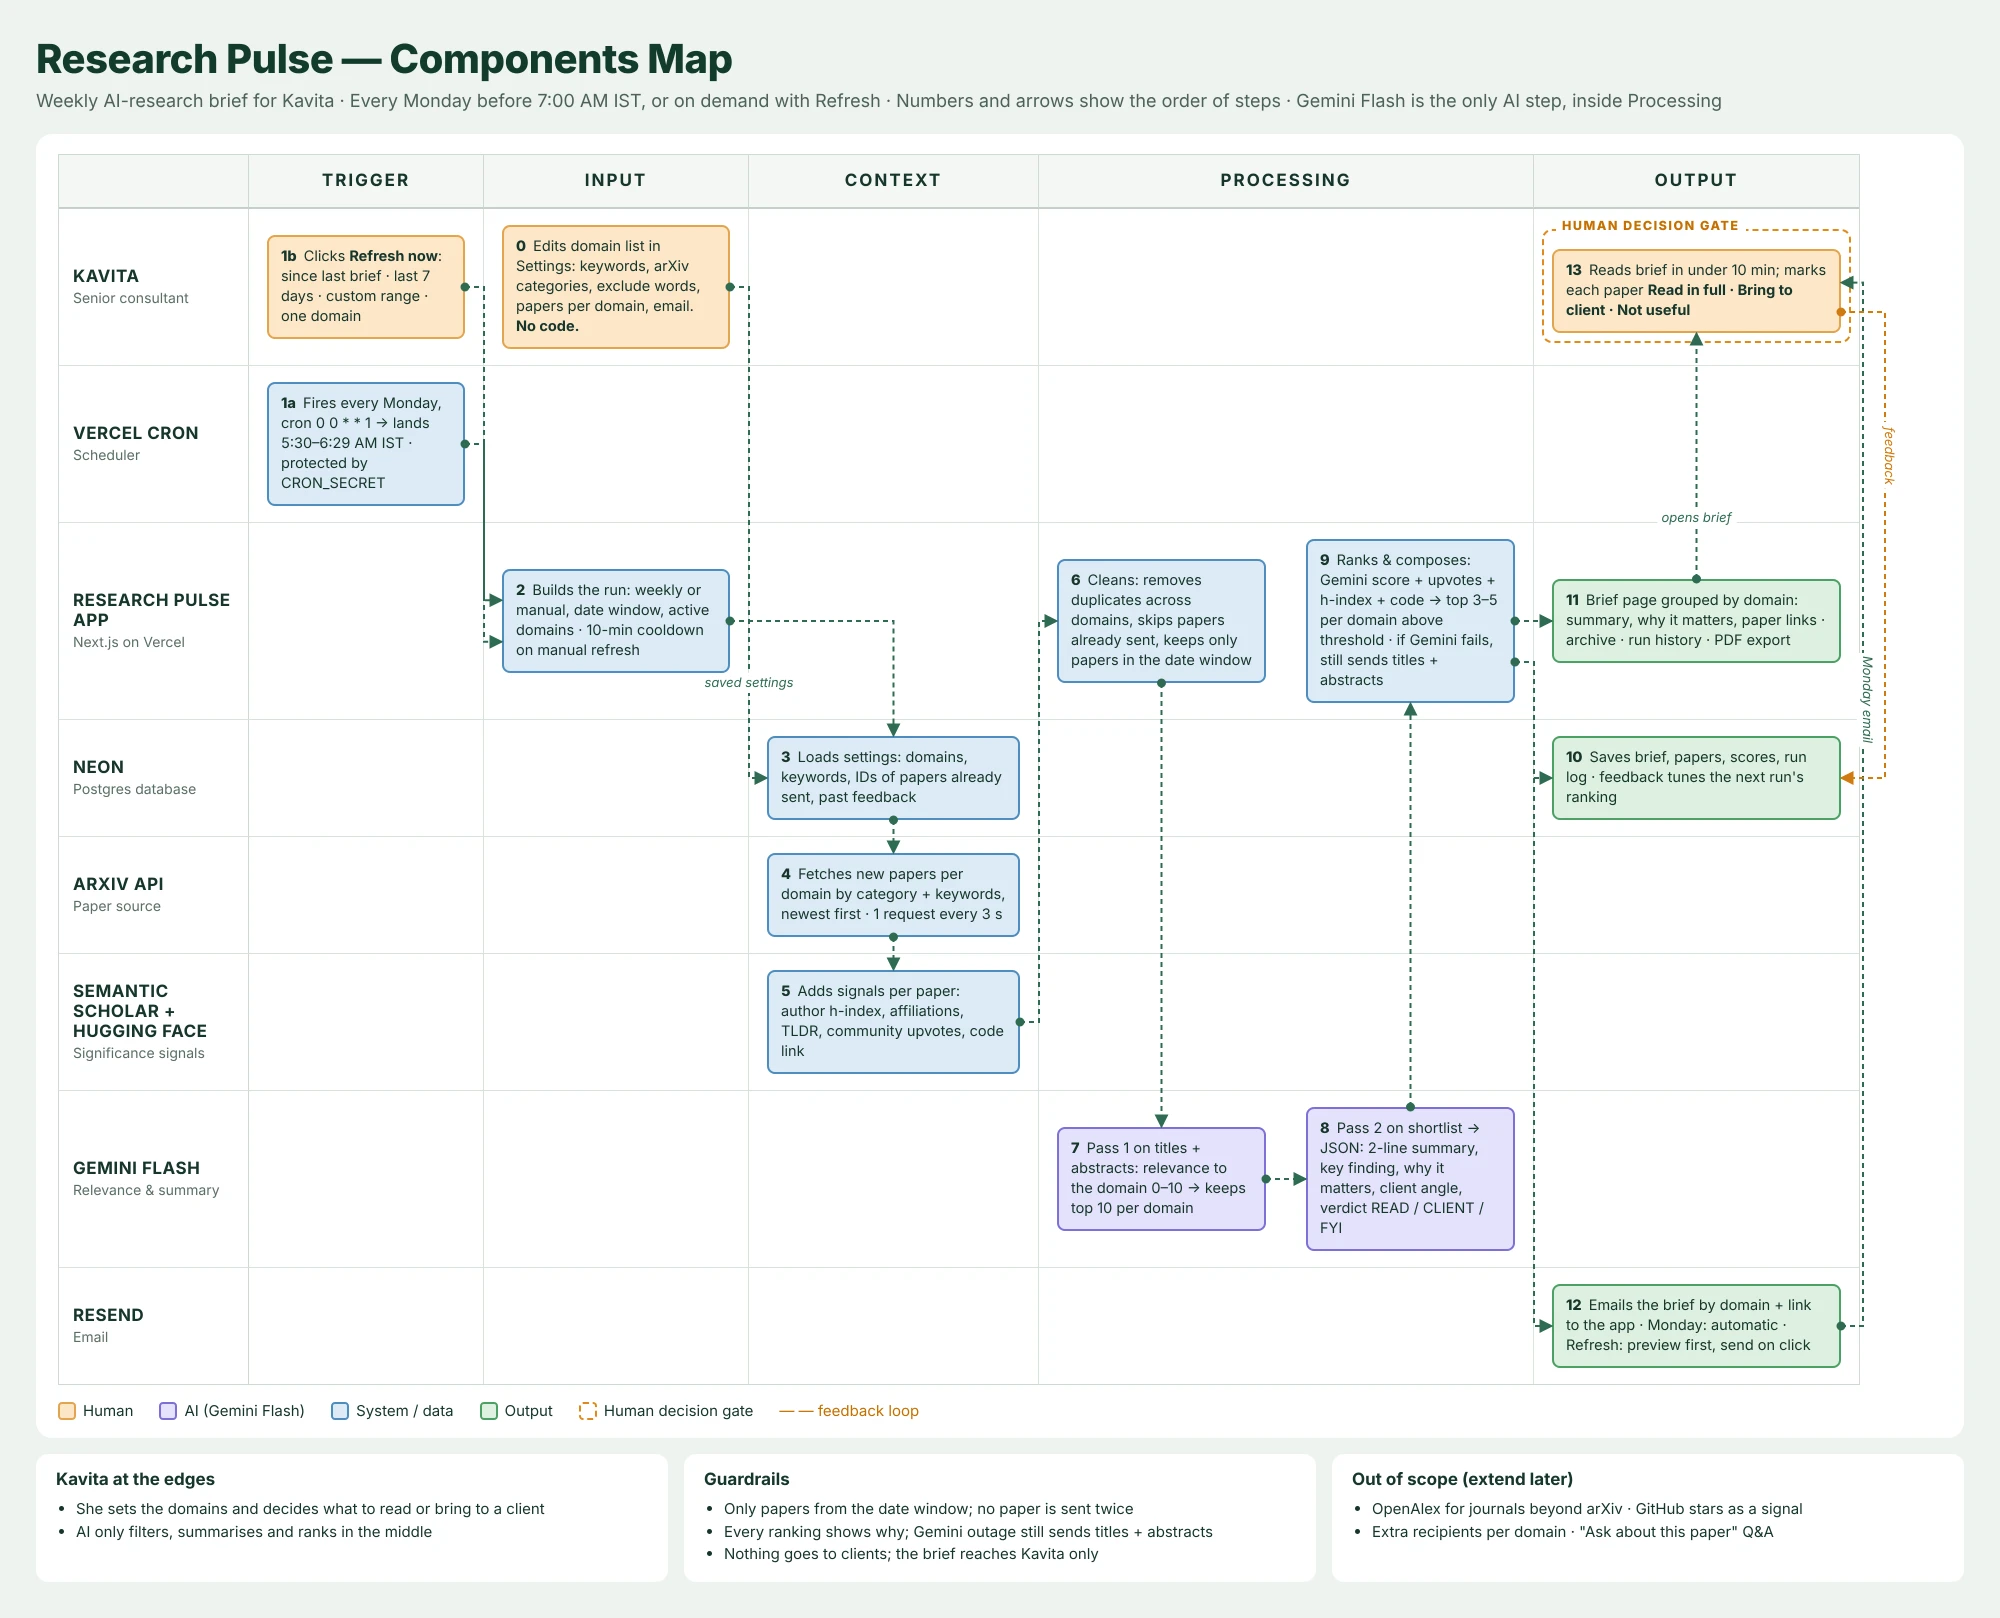
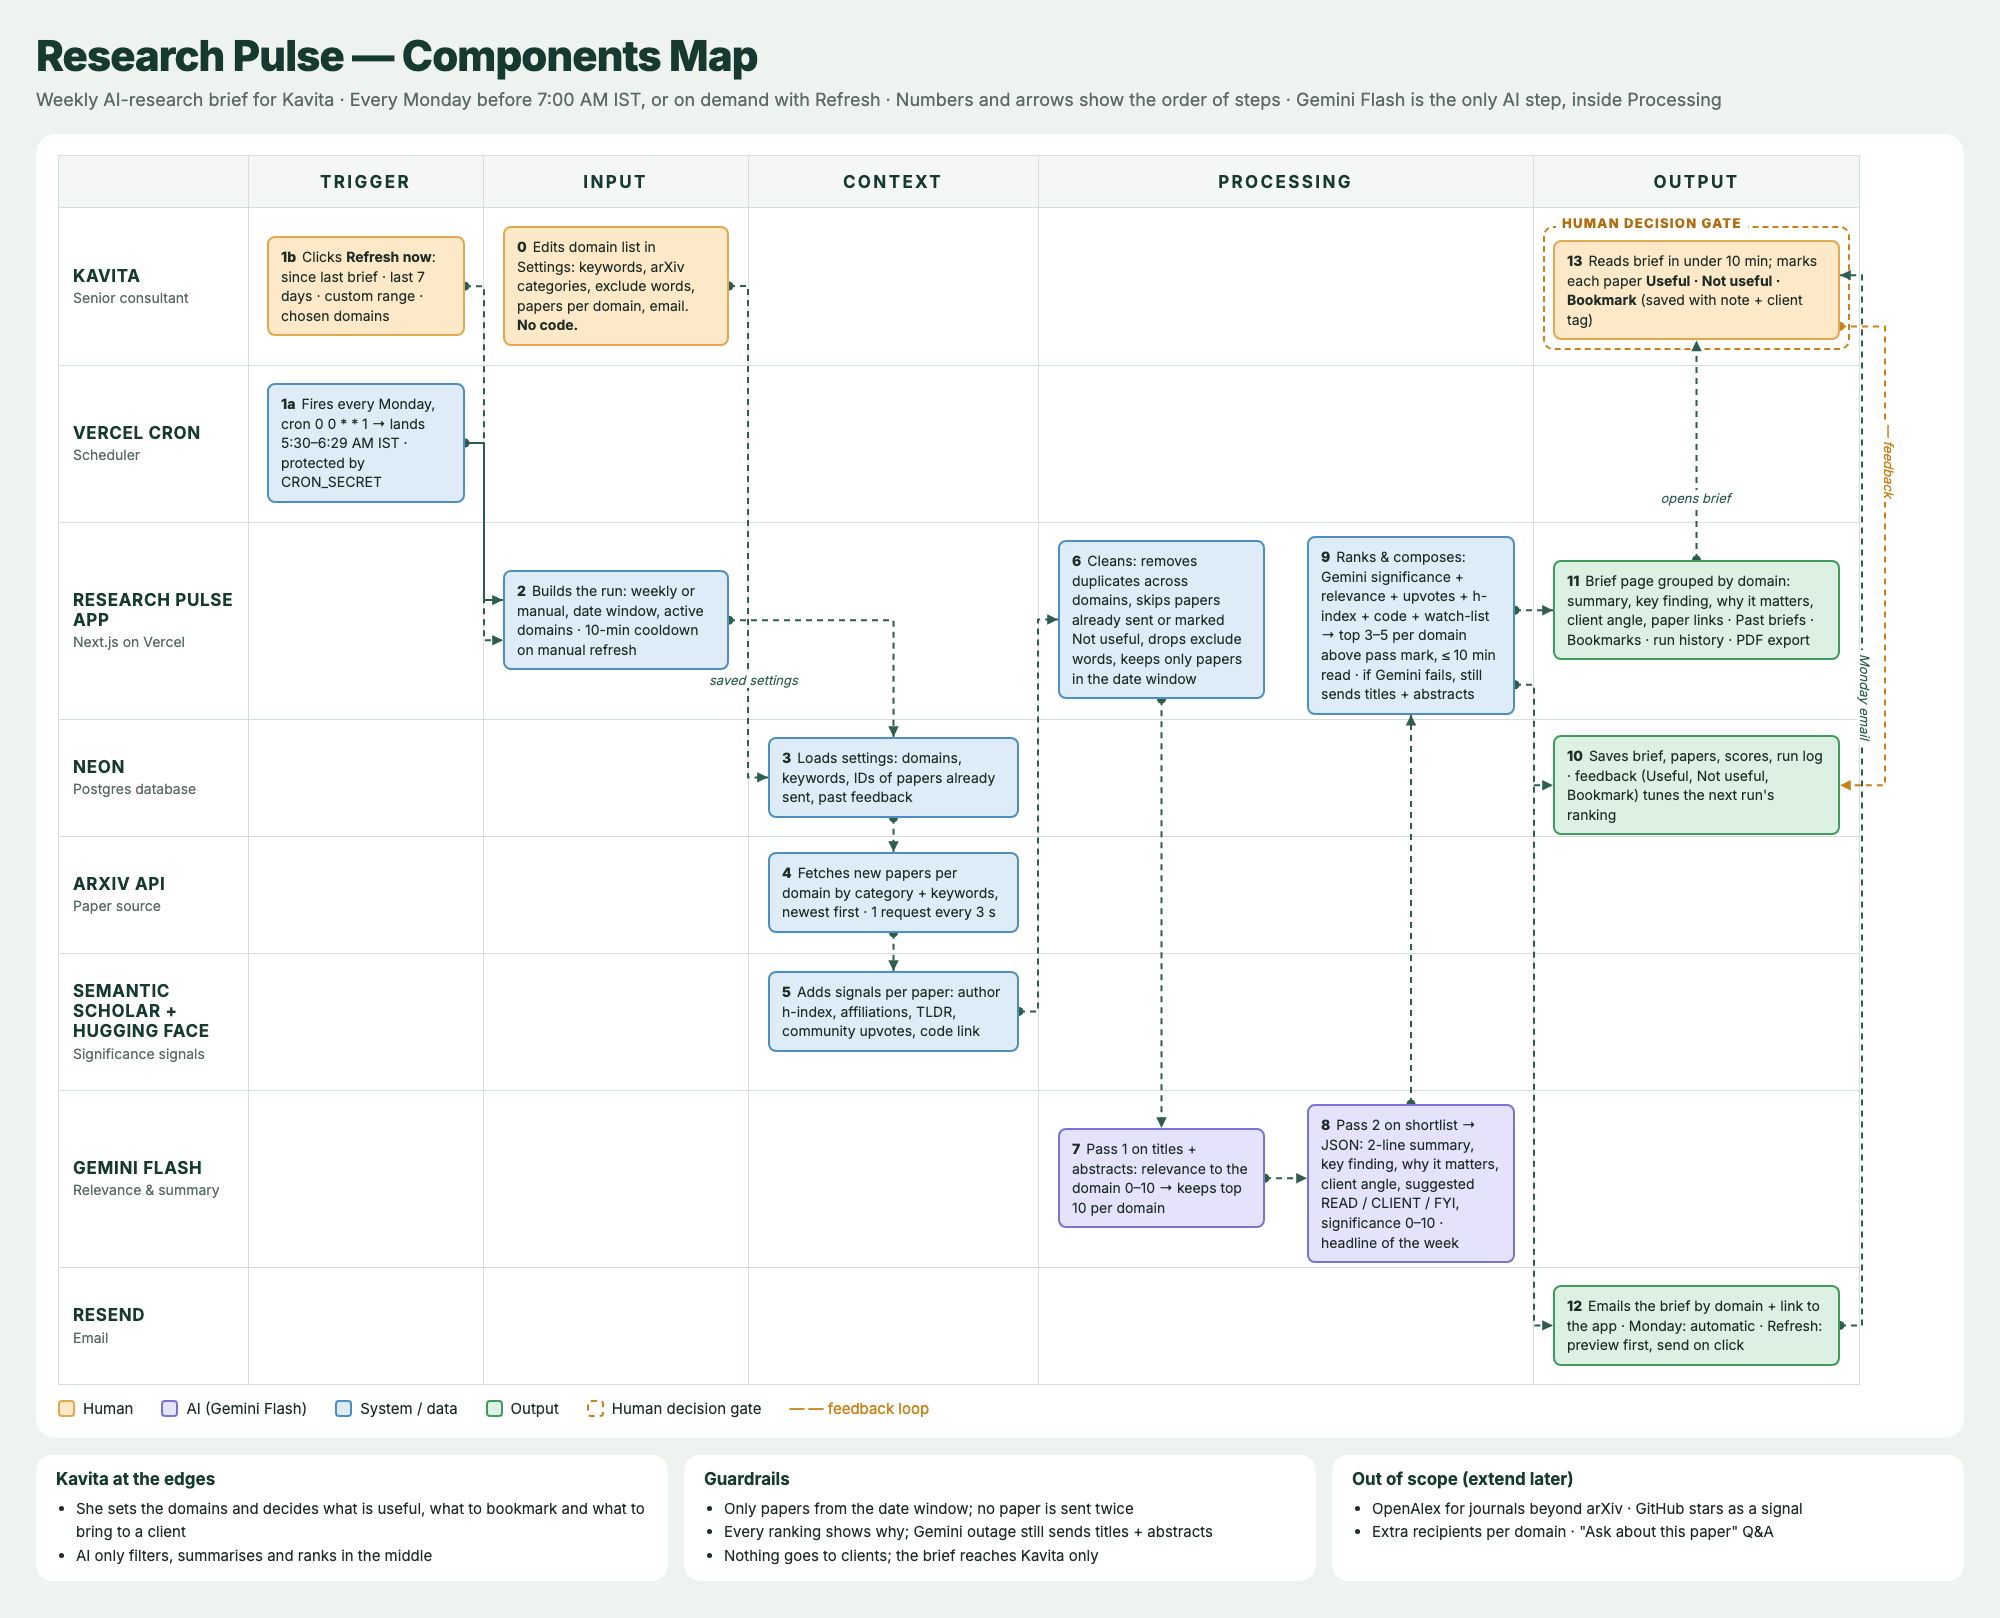
Update Components Map to match final build
Steps 6, 8, 9, 10, 11 and 13 reflect Useful / Not useful / Bookmark, Past briefs,
suggested verdicts and the full ranking. Source HTML kept in docs/components-map.html.

diff --git a/docs/components-map.html b/docs/components-map.html
@@ -1,0 +1,183 @@
+<!doctype html>
+<html lang="en">
+<head>
+<meta charset="utf-8">
+<title>Research Pulse — Components Map</title>
+<link rel="preconnect" href="https://fonts.googleapis.com">
+<link href="https://fonts.googleapis.com/css2?family=Inter:wght@400;500;600;700;800&display=swap" rel="stylesheet">
+<style>
+  :root {
+    --bg: #eef3ef; --card: #ffffff; --ink: #163a2f; --text: #1f2d27; --mut: #5b6b64; --line: #d5dfd9; --hdr: #f4f7f5;
+    --h: #fde8c8; --hb: #e3a84f; --ai: #e5e2fb; --aib: #7b72d6; --sys: #ddecf7; --sysb: #4f8fbf; --out: #dcf1e1; --outb: #3f9a5c;
+    --wire: #2f5d50; --fb: #c9821a;
+  }
+  * { box-sizing: border-box; }
+  html, body { margin: 0; }
+  body { width: 2000px; height: 1618px; background: var(--bg); color: var(--text); font-family: Inter, -apple-system, "Segoe UI", sans-serif; position: relative; overflow: hidden; }
+  h1 { position: absolute; left: 36px; top: 30px; margin: 0; font-size: 42px; font-weight: 800; letter-spacing: -0.02em; color: var(--ink); }
+  .sub { position: absolute; left: 36px; top: 89px; margin: 0; font-size: 18px; color: var(--mut); }
+  .card { position: absolute; left: 36px; top: 134px; width: 1928px; height: 1304px; background: var(--card); border-radius: 20px; }
+  .grid { position: absolute; left: 58px; top: 155px; width: 1802px; height: 1230px; border: 1px solid var(--line); }
+  .hrow { position: absolute; left: 58px; top: 155px; width: 1802px; height: 53px; background: var(--hdr); border-bottom: 1px solid var(--line); }
+  .col { position: absolute; top: 155px; height: 1230px; border-left: 1px solid var(--line); }
+  .row { position: absolute; left: 58px; width: 1802px; border-top: 1px solid var(--line); }
+  .hd { position: absolute; top: 155px; height: 53px; display: flex; align-items: center; justify-content: center; font-weight: 700; font-size: 17px; letter-spacing: 0.14em; color: var(--ink); }
+  .lane { position: absolute; left: 73px; width: 170px; display: flex; flex-direction: column; justify-content: center; font-weight: 700; font-size: 17px; letter-spacing: 0.04em; color: var(--ink); text-transform: uppercase; line-height: 1.2; }
+  .lane small { font-weight: 400; font-size: 14px; letter-spacing: 0; color: var(--mut); text-transform: none; margin-top: 4px; }
+  .b { position: absolute; border: 2px solid; border-radius: 8px; padding: 9px 12px; font-size: 14px; line-height: 1.4; z-index: 2; }
+  .b i { font-style: normal; font-weight: 800; margin-right: 6px; }
+  .h { background: var(--h); border-color: var(--hb); } .ai { background: var(--ai); border-color: var(--aib); }
+  .sys { background: var(--sys); border-color: var(--sysb); } .out { background: var(--out); border-color: var(--outb); }
+  .gate { position: absolute; border: 2px dashed var(--fb); border-radius: 10px; z-index: 1; }
+  .gate-label { position: absolute; font-size: 13px; font-weight: 800; letter-spacing: 0.1em; color: #b06d0d; background: #fff; padding: 0 6px; z-index: 3; }
+  .wlabel { position: absolute; font-size: 13px; font-style: italic; color: var(--wire); background: #fff; padding: 0 4px; z-index: 3; white-space: nowrap; }
+  .vlabel { position: absolute; font-size: 13px; font-style: italic; transform: rotate(90deg); transform-origin: left top; white-space: nowrap; background: #fff; padding: 0 4px; z-index: 3; }
+  svg#wires { position: absolute; left: 0; top: 0; width: 2000px; height: 1618px; z-index: 1; overflow: visible; }
+  .legend { position: absolute; left: 58px; top: 1399px; display: flex; gap: 28px; font-size: 15px; color: var(--text); align-items: center; }
+  .legend span { display: flex; align-items: center; gap: 8px; }
+  .legend b { width: 17px; height: 17px; border-radius: 4px; border: 2px solid; display: inline-block; }
+  .notes { position: absolute; top: 1455px; height: 126px; width: 632px; background: var(--card); border-radius: 16px; padding: 14px 20px; }
+  .notes h3 { margin: 0 0 8px; font-size: 17px; font-weight: 700; color: var(--ink); }
+  .notes ul { margin: 0; padding-left: 20px; font-size: 15px; line-height: 1.55; }
+</style>
+</head>
+<body>
+<h1>Research Pulse — Components Map</h1>
+<p class="sub">Weekly AI-research brief for Kavita · Every Monday before 7:00 AM IST, or on demand with Refresh · Numbers and arrows show the order of steps · Gemini Flash is the only AI step, inside Processing</p>
+
+<div class="card"></div>
+<div class="hrow"></div>
+<div class="grid"></div>
+<div class="col" style="left:248px"></div><div class="col" style="left:483px"></div><div class="col" style="left:748px"></div>
+<div class="col" style="left:1038px"></div><div class="col" style="left:1533px"></div>
+<div class="row" style="top:365px"></div><div class="row" style="top:522px"></div><div class="row" style="top:719px"></div>
+<div class="row" style="top:836px"></div><div class="row" style="top:953px"></div><div class="row" style="top:1090px"></div><div class="row" style="top:1267px"></div>
+
+<div class="hd" style="left:248px;width:235px">TRIGGER</div>
+<div class="hd" style="left:483px;width:265px">INPUT</div>
+<div class="hd" style="left:748px;width:290px">CONTEXT</div>
+<div class="hd" style="left:1038px;width:495px">PROCESSING</div>
+<div class="hd" style="left:1533px;width:327px">OUTPUT</div>
+
+<div class="lane" style="top:208px;height:157px">Kavita<small>Senior consultant</small></div>
+<div class="lane" style="top:365px;height:157px">Vercel Cron<small>Scheduler</small></div>
+<div class="lane" style="top:522px;height:197px">Research Pulse App<small>Next.js on Vercel</small></div>
+<div class="lane" style="top:719px;height:117px">Neon<small>Postgres database</small></div>
+<div class="lane" style="top:836px;height:117px">arXiv API<small>Paper source</small></div>
+<div class="lane" style="top:953px;height:137px">Semantic Scholar + Hugging Face<small>Significance signals</small></div>
+<div class="lane" style="top:1090px;height:177px">Gemini Flash<small>Relevance &amp; summary</small></div>
+<div class="lane" style="top:1267px;height:118px">Resend<small>Email</small></div>
+
+<!-- Kavita -->
+<div id="n1b" class="b h" style="left:267px;top:236px;width:198px"><i>1b</i>Clicks <b>Refresh now</b>: since last brief · last 7 days · custom range · chosen domains</div>
+<div id="n0" class="b h" style="left:503px;top:226px;width:226px"><i>0</i>Edits domain list in Settings: keywords, arXiv categories, exclude words, papers per domain, email.<br><b>No code.</b></div>
+<div id="gate" class="gate"></div>
+<div id="gatelabel" class="gate-label">HUMAN DECISION GATE</div>
+<div id="n13" class="b h" style="left:1553px;top:240px;width:287px"><i>13</i>Reads brief in under 10 min; marks each paper <b>Useful · Not useful · Bookmark</b> (saved with note + client tag)</div>
+
+<!-- Vercel Cron -->
+<div id="n1a" class="b sys" style="left:267px;top:383px;width:198px"><i>1a</i>Fires every Monday, cron 0 0 * * 1 → lands 5:30–6:29 AM IST · protected by CRON_SECRET</div>
+
+<!-- App -->
+<div id="n2" class="b sys" style="left:503px;top:570px;width:226px"><i>2</i>Builds the run: weekly or manual, date window, active domains · 10-min cooldown on manual refresh</div>
+<div id="n6" class="b sys" style="left:1058px;top:540px;width:207px"><i>6</i>Cleans: removes duplicates across domains, skips papers already sent or marked Not useful, drops exclude words, keeps only papers in the date window</div>
+<div id="n9" class="b sys" style="left:1307px;top:536px;width:208px"><i>9</i>Ranks &amp; composes: Gemini significance + relevance + upvotes + h-index + code + watch-list → top 3–5 per domain above pass mark, ≤ 10 min read · if Gemini fails, still sends titles + abstracts</div>
+<div id="n11" class="b out" style="left:1553px;top:560px;width:287px"><i>11</i>Brief page grouped by domain: summary, key finding, why it matters, client angle, paper links · Past briefs · Bookmarks · run history · PDF export</div>
+
+<!-- Neon -->
+<div id="n3" class="b sys" style="left:768px;top:737px;width:251px"><i>3</i>Loads settings: domains, keywords, IDs of papers already sent, past feedback</div>
+<div id="n10" class="b out" style="left:1553px;top:735px;width:287px"><i>10</i>Saves brief, papers, scores, run log · feedback (Useful, Not useful, Bookmark) tunes the next run's ranking</div>
+
+<!-- arXiv -->
+<div id="n4" class="b sys" style="left:768px;top:852px;width:251px"><i>4</i>Fetches new papers per domain by category + keywords, newest first · 1 request every 3 s</div>
+
+<!-- S2 + HF -->
+<div id="n5" class="b sys" style="left:768px;top:971px;width:251px"><i>5</i>Adds signals per paper: author h-index, affiliations, TLDR, community upvotes, code link</div>
+
+<!-- Gemini -->
+<div id="n7" class="b ai" style="left:1058px;top:1128px;width:207px"><i>7</i>Pass 1 on titles + abstracts: relevance to the domain 0–10 → keeps top 10 per domain</div>
+<div id="n8" class="b ai" style="left:1307px;top:1104px;width:208px"><i>8</i>Pass 2 on shortlist → JSON: 2-line summary, key finding, why it matters, client angle, suggested READ / CLIENT / FYI, significance 0–10 · headline of the week</div>
+
+<!-- Resend -->
+<div id="n12" class="b out" style="left:1553px;top:1285px;width:287px"><i>12</i>Emails the brief by domain + link to the app · Monday: automatic · Refresh: preview first, send on click</div>
+
+<svg id="wires" xmlns="http://www.w3.org/2000/svg"></svg>
+
+<div class="legend">
+  <span><b style="background:var(--h);border-color:var(--hb)"></b>Human</span>
+  <span><b style="background:var(--ai);border-color:var(--aib)"></b>AI (Gemini Flash)</span>
+  <span><b style="background:var(--sys);border-color:var(--sysb)"></b>System / data</span>
+  <span><b style="background:var(--out);border-color:var(--outb)"></b>Output</span>
+  <span><b style="background:#fff;border:2px dashed var(--fb)"></b>Human decision gate</span>
+  <span style="color:var(--fb)">— — feedback loop</span>
+</div>
+
+<div class="notes" style="left:36px"><h3>Kavita at the edges</h3><ul>
+  <li>She sets the domains and decides what is useful, what to bookmark and what to bring to a client</li>
+  <li>AI only filters, summarises and ranks in the middle</li></ul></div>
+<div class="notes" style="left:684px"><h3>Guardrails</h3><ul>
+  <li>Only papers from the date window; no paper is sent twice</li>
+  <li>Every ranking shows why; Gemini outage still sends titles + abstracts</li>
+  <li>Nothing goes to clients; the brief reaches Kavita only</li></ul></div>
+<div class="notes" style="left:1332px"><h3>Out of scope (extend later)</h3><ul>
+  <li>OpenAlex for journals beyond arXiv · GitHub stars as a signal</li>
+  <li>Extra recipients per domain · "Ask about this paper" Q&amp;A</li></ul></div>
+
+<script>
+function R(id) {
+  const r = document.getElementById(id).getBoundingClientRect();
+  return { l: r.left, r: r.right, t: r.top, b: r.bottom, cx: (r.left + r.right) / 2, cy: (r.top + r.bottom) / 2, h: r.height };
+}
+const svg = document.getElementById("wires");
+const NS = "http://www.w3.org/2000/svg";
+function el(tag, attrs) { const e = document.createElementNS(NS, tag); for (const k in attrs) e.setAttribute(k, attrs[k]); svg.appendChild(e); return e; }
+function wire(pts, { color = "#2f5d50", dashed = true, dot = true, arrow = true } = {}) {
+  el("polyline", { points: pts.map((p) => p.join(",")).join(" "), fill: "none", stroke: color, "stroke-width": 2, "stroke-dasharray": dashed ? "6 5" : "", "stroke-linejoin": "round" });
+  if (dot) el("circle", { cx: pts[0][0], cy: pts[0][1], r: 4.5, fill: color });
+  if (arrow) {
+    const [x2, y2] = pts[pts.length - 1], [x1, y1] = pts[pts.length - 2];
+    const a = Math.atan2(y2 - y1, x2 - x1), s = 12;
+    const p1 = [x2 - s * Math.cos(a - 0.45), y2 - s * Math.sin(a - 0.45)], p2 = [x2 - s * Math.cos(a + 0.45), y2 - s * Math.sin(a + 0.45)];
+    el("polygon", { points: `${x2},${y2} ${p1.join(",")} ${p2.join(",")}`, fill: color });
+  }
+}
+function label(text, x, y, cls = "wlabel", color) {
+  const d = document.createElement("div"); d.className = cls; d.textContent = text; d.style.left = x + "px"; d.style.top = y + "px";
+  if (color) d.style.color = color; document.body.appendChild(d); return d;
+}
+function draw() {
+  // Size the dashed human-decision gate around step 13.
+  const g = R("n13"), gate = document.getElementById("gate"), gl = document.getElementById("gatelabel");
+  Object.assign(gate.style, { left: g.l - 10 + "px", top: g.t - 14 + "px", width: g.r - g.l + 20 + "px", height: g.h + 24 + "px" });
+  Object.assign(gl.style, { left: g.l + 3 + "px", top: g.t - 25 + "px" });
+  const b1b = R("n1b"), b1a = R("n1a"), b0 = R("n0"), b2 = R("n2"), b3 = R("n3"), b4 = R("n4"), b5 = R("n5"), b6 = R("n6"),
+    b7 = R("n7"), b8 = R("n8"), b9 = R("n9"), b10 = R("n10"), b11 = R("n11"), b12 = R("n12"), b13 = R("n13");
+  const in2a = b2.t + b2.h * 0.3, in2b = b2.t + b2.h * 0.7;
+  wire([[b1b.r, b1b.cy], [484, b1b.cy], [484, in2b], [b2.l, in2b]]);
+  wire([[b1a.r, b1a.cy], [484, b1a.cy], [484, in2a], [b2.l, in2a]], { dashed: false });
+  wire([[b0.r, b0.cy], [748, b0.cy], [748, b3.cy], [b3.l, b3.cy]]);
+  label("saved settings", 705, b2.b + 2);
+  wire([[b2.r, b2.cy], [b3.cx, b2.cy], [b3.cx, b3.t]]);
+  wire([[b3.cx, b3.b], [b3.cx, b4.t]]);
+  wire([[b4.cx, b4.b], [b4.cx, b5.t]]);
+  wire([[b5.r, b5.cy], [1038, b5.cy], [1038, b6.cy], [b6.l, b6.cy]]);
+  wire([[b6.cx, b6.b], [b6.cx, b7.t]]);
+  wire([[b7.r, b7.cy], [b8.l, b7.cy]]);
+  wire([[b8.cx, b8.t], [b8.cx, b9.b]]);
+  wire([[b9.r, b11.cy], [b11.l, b11.cy]]);
+  const down = b9.b - 30;
+  wire([[b9.r, down], [1534, down], [1534, b12.cy], [b12.l, b12.cy]]);
+  wire([[1534, b10.cy], [b10.l, b10.cy]], { dot: false });
+  wire([[b11.cx, b11.t], [b11.cx, b13.b]]);
+  label("opens brief", b11.cx - 40, (b11.t + b13.b) / 2 + 40);
+  const in13 = b13.t + b13.h * 0.35;
+  wire([[b12.r, b12.cy], [1862, b12.cy], [1862, in13], [b13.r, in13]]);
+  label("Monday email", 1873, 650, "vlabel", "#2f5d50");
+  const out13 = b13.b - 14;
+  wire([[b13.r, out13], [1885, out13], [1885, b10.cy], [b10.r, b10.cy]], { color: "#c9821a" });
+  label("— feedback", 1897, 420, "vlabel", "#c9821a");
+}
+(document.fonts ? document.fonts.ready : Promise.resolve()).then(draw);
+</script>
+</body>
+</html>
